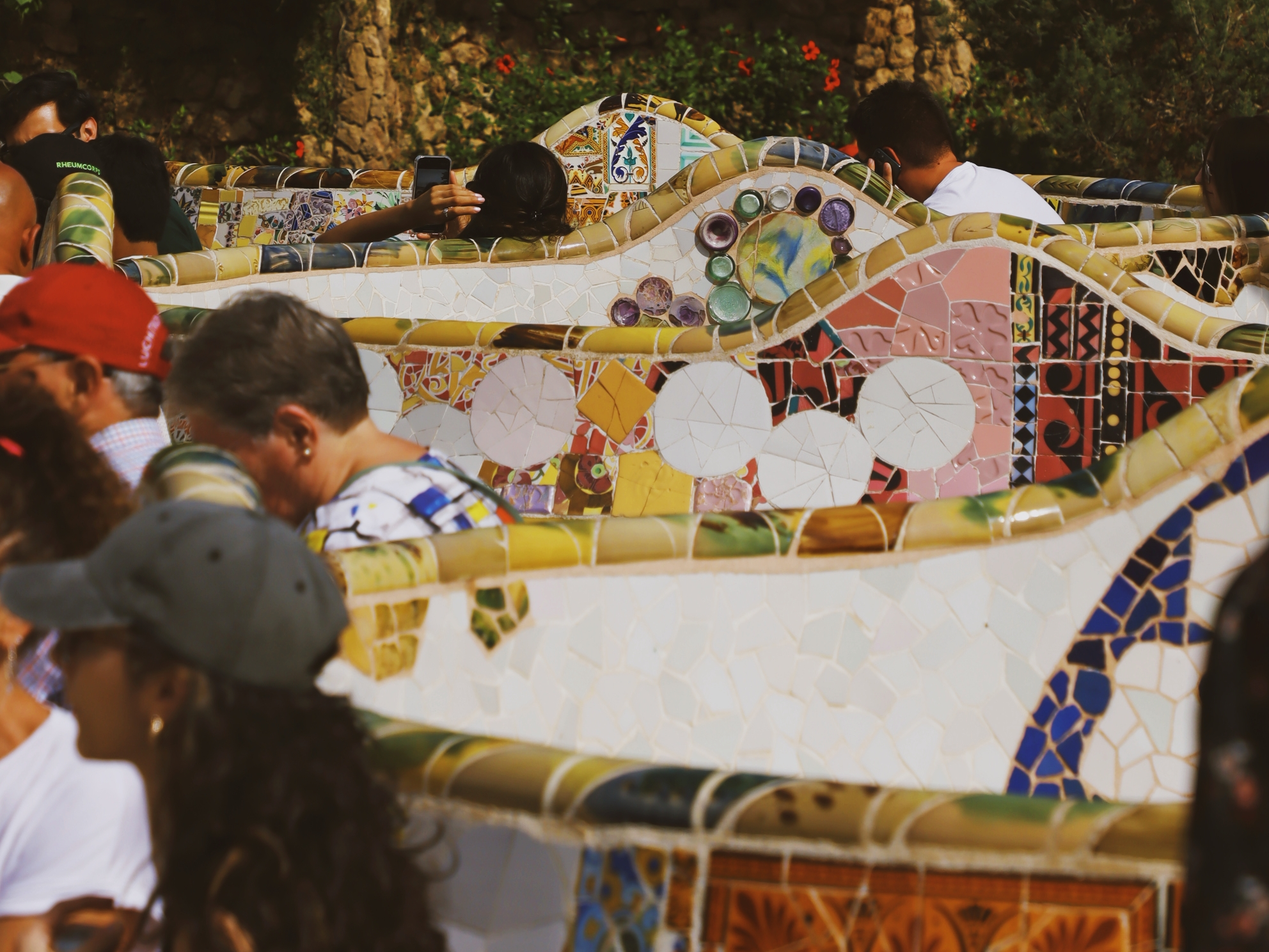
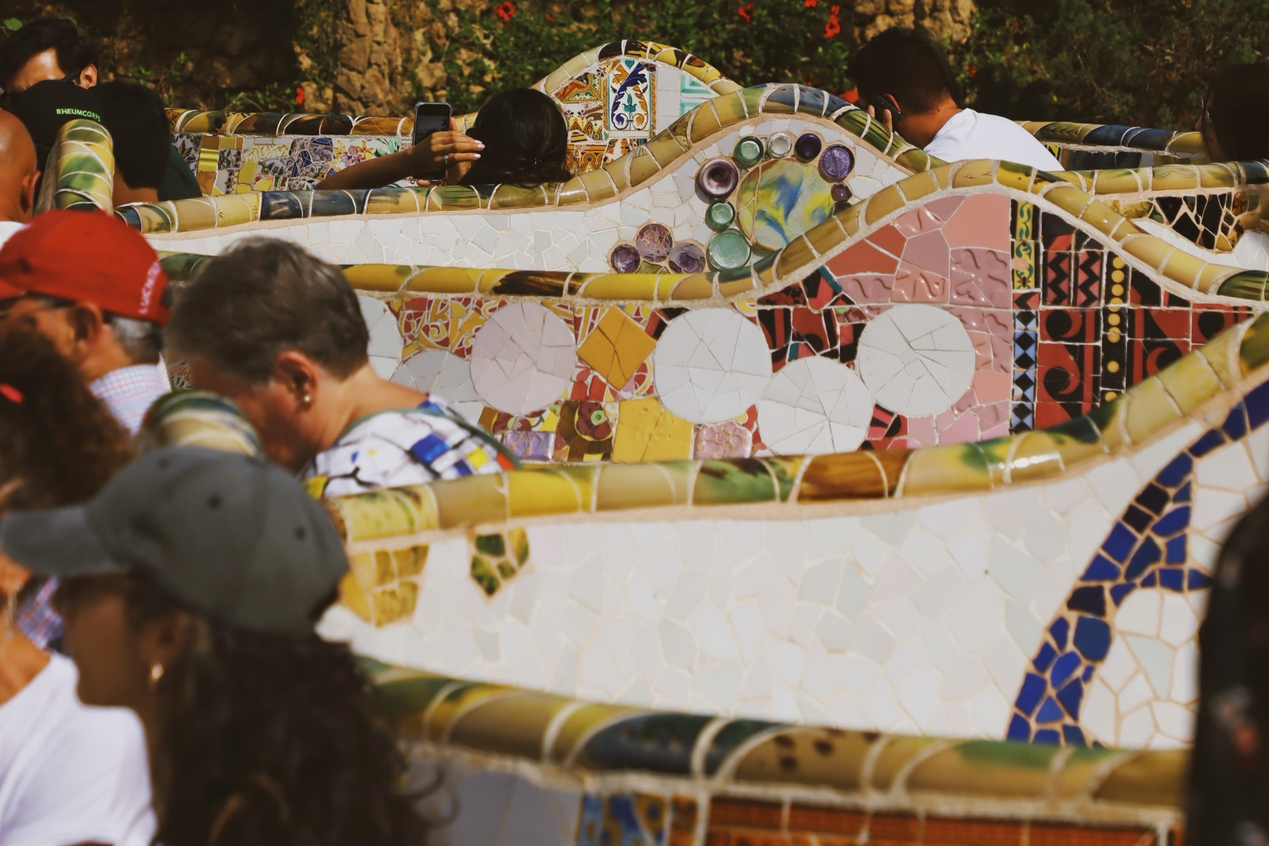
Site updated: 2024-08-31 03:32:55

diff --git a/2024/08/29/barcelona/index.html b/2024/08/29/barcelona/index.html
@@ -235,7 +235,9 @@
 <p>義大利麵不用說啦，隔壁就是義大利，主要是超市有賣生麵條，真的跟平常吃的那種乾麵條天差地別，等我有自己的冰箱我真的要開始自己做麵條了。</p>
 <p>菇類算是非常驚豔，真的香到爆炸，但主要還是品種跟氣候差異啦，亞洲香菇就適合做亞洲菜，沒辦法。</p>
 <p>雞肉的話可能算是驚喜？在超市看到覺得看起來很好吃就買回來煮了，結果真的很好吃，算是沒有料到的意外收穫。</p>
-<p>其他東西就，馬鈴薯好吃，生火腿好吃而且便宜，無花果好吃，優格我爸一直買。很多東西都好吃，但我覺得看個人口味啦，我是全部都能接受，但我一直以為我媽算是對歐美食物接受度非常高了，結果有個冷的薄薄類似鹹派的東西，全家只有我吃得下去，而且我覺得滿好吃的。基本上西班牙口味我是覺得某些微妙的部分真的很像台灣啦，然後料理手法普遍來說都很好，價格應該也算歐洲便宜了，很不錯。</p>
+<p>其他東西就，馬鈴薯好吃，生火腿好吃而且便宜，無花果好吃，優格我爸一直買。很多東西都好吃，但我覺得看個人口味啦，我是全部都能接受，但我一直以為我媽算是對歐美食物接受度非常高了，結果有個冷的薄薄類似鹹派的東西，全家只有我吃得下去，而且我覺得滿好吃的。基本上西班牙口味我是覺得某些微妙的部分真的很像台灣啦，然後料理手法普遍來說都很好，價格應該也算歐洲便宜的了，很不錯。</p>
+<hr>
+<p>雖然我不懂建築，但其實很多東西我也不懂，更多時候我們還是需要用感受的，去感受這樣做的原因，感受他所要傳達的，並用你所能理解的方式感受。比方說我用光來感受他的建築，你也能用任何方式感受任何事物，只要真正用心感受，我想都是能夠互相理解的。</p>
 
 </div> 
 

diff --git a/css/style.css b/css/style.css
@@ -1026,7 +1026,7 @@ td {
 }
 img {
   max-width: 100%;
-  max-height: 533.633px;
+  max-height: 536.225px;
   width: auto;
   height: 100%;
 }

diff --git a/css/post/media.css b/css/post/media.css
@@ -1,6 +1,6 @@
 img {
   max-width: 100%;
-  max-height: 533.633px;
+  max-height: 536.225px;
   width: auto;
   height: 100%;
 }
